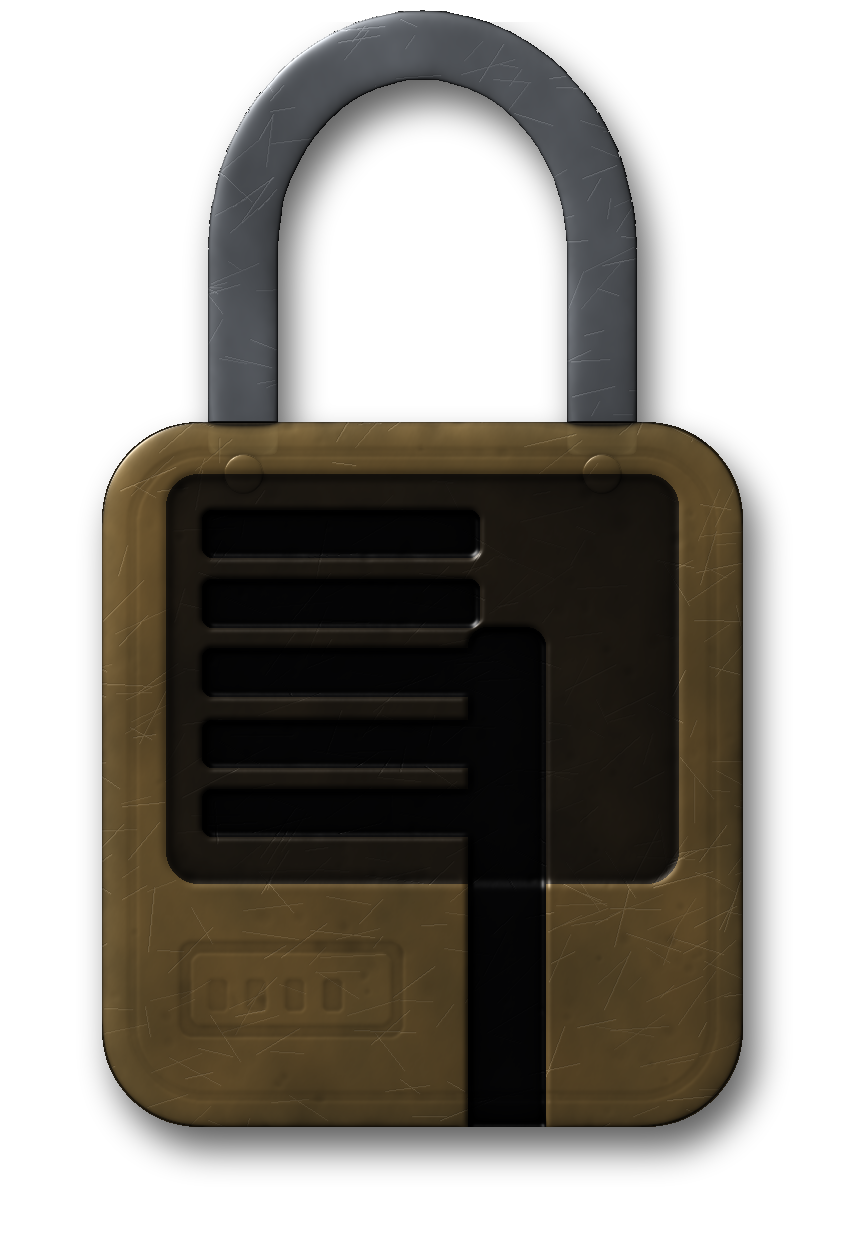
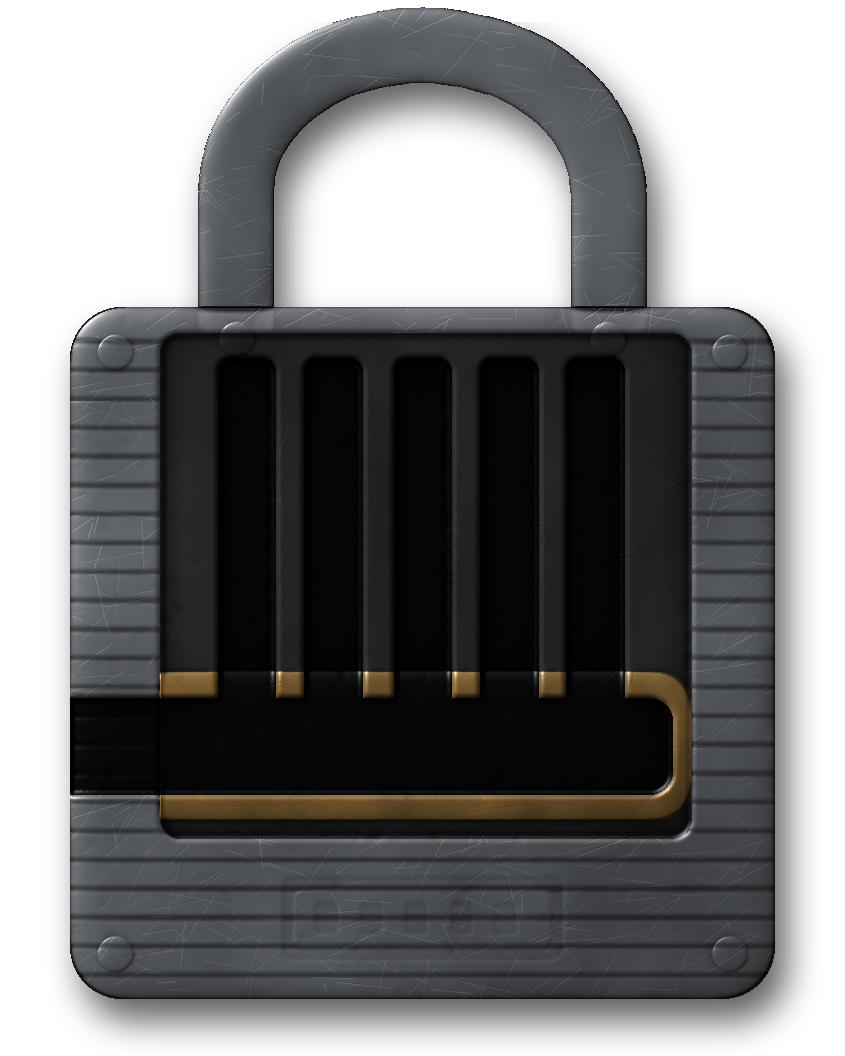
Lockpicking: the padlock is a cutaway practice lock, pins upright
From the reference pictures: a padlock is picked as any pin tumbler is, the
pins standing upright in their chambers above the plug and the pick coming
in sideways through the keyway. It was drawn with the whole mechanism
turned on its side. The padlock is now a laminated steel body with its
shackle, opened up to show the pin chambers above a brass plug, the keyway
open at its side; the game's pins and pick stand in it upright, as in
every other lock. The mechanics are unchanged.

Claude-Session: https://claude.ai/code/session_01HEx4Dv9WeWKY8cC8hzvUb9

diff --git a/game/tools/make_lock_art.py b/game/tools/make_lock_art.py
@@ -13,8 +13,9 @@ The plates share the escutcheon's layout, in the game's "plate" coordinates
 (``game/ui/lockpicking.py``: drawn into QRectF(-12, 130, 480, 320), 3.2 px per
 unit), so the live pins and pick the game draws sit in their channels: five
 channels at x = 173, 200, 228, 255, 282 above a keyway at y ~ 318-346. The
-padlock is drawn into QRectF(PADLOCK_RECT); its mechanism is turned upright
-(the pick enters from below) and its channels are laid out to match.
+padlock, drawn into QRectF(PADLOCK_RECT), is a cutaway practice lock: its pin
+chambers and plug sit in that same place, the pins upright, the pick in from
+the left through the keyway.
 
 Deterministic (fixed seeds). Run from the repo root::
 
@@ -32,7 +33,7 @@ from PIL import Image, ImageDraw, ImageFilter
 OUT = os.path.join("assets", "ui", "lockpicking")
 SCALE = 3.2                       # px per plate unit, as escutcheon.png
 PLATE_RECT = (-12.0, 130.0, 480.0, 320.0)
-PADLOCK_RECT = (100.0, 104.0, 270.0, 392.0)
+PADLOCK_RECT = (96.0, 100.0, 264.0, 330.0)
 PINS = (173, 200, 228, 255, 282)
 LIGHT = np.array([-0.55, -0.62, 0.56])
 LIGHT = LIGHT / np.linalg.norm(LIGHT)
@@ -317,84 +318,75 @@ def rusted_lock():
 
 
 # ------------------------------------------------------------------ padlock
-def padlock_layout():
-    """Plate-unit geometry of the padlock, and where the upright mechanism's
-    channels land (game/ui/lockpicking.py turns it about (232, 314) by -90
-    degrees at 0.8 scale)."""
-    c, s = (232.0, 314.0), 0.8
-    rows = [c[1] - s * (x - 228) for x in PINS]                # channel centre rows
-    return {"centre": c, "scale": s, "rows": rows,
-            "chan_x": (c[0] + s * (214 - 300), c[0] + s * (322 - 300)),
-            "keyway_x": (c[0] + s * (318 - 300), c[0] + s * (348 - 300))}
-
-
 def padlock():
+    """A laminated steel padlock opened up, as a cutaway practice lock is: the
+    shackle above, the body's laminations, and a window into the works -- the
+    pin chambers standing upright above a brass plug, its keyway open at the
+    body's left side, where the pick comes in. The pins and pick the game
+    draws stand in these chambers (the box locks' layout)."""
     cv = Canvas(PADLOCK_RECT)
     rng = np.random.default_rng(37)
-    lay = padlock_layout()
-    body, shackle, recess, window = cv.mask(), cv.mask(), cv.mask(), cv.mask()
-    cv.rrect(body, 132, 236, 332, 456, 30)
-    path = [(176, 246), (176, 182)]
+    body, shackle, window, plug, recess = (cv.mask() for _ in range(5))
+    cv.rrect(body, 118, 196, 338, 412, 16)
+    path = [(170, 204), (170, 160)]
     for i in range(0, 181, 6):
         a = math.radians(180 - i)
-        path.append((232 + 56 * math.cos(a), 182 - 64 * math.sin(a)))
-    path += [(288, 182), (288, 246)]
-    cv.line(shackle, path, 22)
-    cv.rrect(window, 152, 252, 312, 380, 10)            # the cutaway into the works
-    x0, x1 = lay["chan_x"]
-    for row in lay["rows"]:
-        cv.rrect(recess, x0, row - 7.4, x1, row + 7.4, 3)
-    k0, k1 = lay["keyway_x"]
-    cv.rrect(recess, k0, 300, k1, 470, 6)               # the keyway, out through the foot
-    b, sh, rc, wn = arr(body), arr(shackle), arr(recess), arr(window)
+        path.append((228 + 58 * math.cos(a), 160 - 46 * math.sin(a)))
+    path += [(286, 160), (286, 204)]
+    cv.line(shackle, path, 24)
+    cv.rrect(window, 146, 204, 312, 362, 6)             # the cutaway into the works
+    cv.rrect(plug, 134, 310, 312, 356, 10)              # the brass plug, its shear line on top
+    for x in PINS:
+        cv.rrect(recess, x - 9, 212, x + 9, 324, 4)     # the pin chambers
+    cv.rrect(recess, 112, 318, 306, 348, 7)             # the keyway, open at the left side
+    b, sh, wn, pg, rc = arr(body), arr(shackle), arr(window), arr(plug), arr(recess)
     shape = b.shape
-    h = 0.6 * bevel(b, 10 * SCALE) + 0.5 * bevel(sh, 5 * SCALE) * (1 - b)
-    h += 0.5 * sh * 0  # the shackle's roundness comes from its bevel
-    h -= 0.35 * blur(wn, 3) * b
-    h -= 0.6 * blur(rc * np.maximum(b, wn), 2)
-    cast = noise(shape, 70, rng, 6)
-    h += 0.035 * (cast - 0.5) * b
-    h += 0.03 * blur(dents(shape, rng, 500, 4, 18), 1.2) * b
-    scr = scratches(shape, rng, 900, 50)
+    h = 0.6 * bevel(b, 8 * SCALE) + 0.55 * bevel(sh, 6 * SCALE) * (1 - b)
+    # Laminations: the stacked steel plates a padlock body is riveted from.
+    lam = np.zeros(shape, np.float32)
+    for y in range(206, 412, 9):
+        g = cv.mask()
+        cv.rrect(g, 118, y, 338, y + 1.4, 0.6)
+        lam = np.maximum(lam, arr(g))
+    h -= 0.05 * blur(lam, 1.2) * b * (1 - wn)
+    h -= 0.45 * blur(wn, 2.5) * b                       # the window is cut in
+    h += 0.42 * bevel(pg, 6 * SCALE) * wn               # the round plug stands proud in it
+    h -= 0.7 * blur(rc * np.maximum(b, pg), 1.8)
+    h += 0.03 * blur(dents(shape, rng, 600, 3, 14), 1.2) * b
+    scr = scratches(shape, rng, 1100, 50)
     h -= 0.02 * scr * (b + sh)
-    # A stamped maker's mark on the face, below the cutaway.
+    rivets = np.zeros(shape, np.float32)
+    for (x, y) in ((132, 210), (324, 210), (132, 398), (324, 398), (170, 206), (286, 206)):
+        rivets = np.maximum(rivets, dome(cv, shape, x, y, 5.5))
+    h += 0.2 * rivets
     mark = cv.mask()
-    cv.rrect(mark, 156, 398, 226, 428, 4)
+    cv.rrect(mark, 184, 374, 272, 400, 4)
     inner = cv.mask()
-    cv.rrect(inner, 160, 402, 222, 424, 3)
+    cv.rrect(inner, 188, 378, 268, 396, 3)
     stamp = arr(mark) - arr(inner)
-    border = cv.mask()
-    cv.rrect(border, 140, 244, 324, 448, 24)
-    border_in = cv.mask()
-    cv.rrect(border_in, 143, 247, 321, 445, 21)
-    stamp = np.maximum(stamp, (arr(border) - arr(border_in)) * 0.8)
-    for k, x in enumerate((168, 180, 192, 204)):
+    for k, x in enumerate((198, 212, 226, 240, 254)):
         dot = cv.mask()
-        cv.rrect(dot, x - 3, 410, x + 3, 420, 1.5)
-        stamp = np.maximum(stamp, arr(dot) * (0.7 + 0.1 * k))
-    h -= 0.05 * blur(stamp, 1.0)
-    rivet = np.maximum(dome(cv, shape, 176, 252, 6.0), dome(cv, shape, 288, 252, 6.0))
-    h += 0.18 * rivet
+        cv.rrect(dot, x - 3.5, 382, x + 3.5, 392, 1.5)
+        stamp = np.maximum(stamp, arr(dot) * 0.8)
+    h -= 0.05 * blur(stamp, 1.0) * b
     alpha = np.clip(b + sh, 0, 1)
-    steel = np.array([0.46, 0.48, 0.51])
-    brass = np.array([0.62, 0.48, 0.26])
     tone = noise(shape, 220, rng, 5)
-    patina = noise(shape, 90, rng, 5)
-    body_col = brass * (0.75 + 0.45 * tone[..., None])
-    body_col = body_col * (1 - 0.3 * patina[..., None]) + np.array([0.30, 0.30, 0.20]) * 0.3 * patina[..., None]
-    steel_col = steel * (0.78 + 0.4 * tone[..., None])
-    on_body = b[..., None]
-    albedo = body_col * on_body + steel_col * (1 - on_body)
-    edge = np.clip(bevel(b, 3 * SCALE) - bevel(b, 12 * SCALE), 0, 1) + np.clip(
-        bevel(sh, 2 * SCALE) - bevel(sh, 6 * SCALE), 0, 1)
-    shine = np.array([0.92, 0.80, 0.52]) * on_body + np.array([0.80, 0.82, 0.84]) * (1 - on_body)
-    albedo = albedo * (1 - 0.35 * edge[..., None]) + shine * 0.35 * edge[..., None]
+    steel = np.array([0.50, 0.52, 0.55]) * (0.78 + 0.4 * tone[..., None])
+    albedo = steel.copy()
+    edge = np.clip(bevel(b, 2.5 * SCALE) - bevel(b, 10 * SCALE), 0, 1) + np.clip(
+        bevel(sh, 2 * SCALE) - bevel(sh, 7 * SCALE), 0, 1)
+    albedo = albedo * (1 - 0.35 * edge[..., None]) + np.array([0.82, 0.84, 0.86]) * 0.35 * edge[..., None]
+    albedo *= (1 - 0.35 * blur(lam, 1.5)[..., None] * (1 - wn[..., None]))
     grime = blur(np.clip(1 - h * 1.6, 0, 1), 8) * noise(shape, 40, rng, 4)
-    albedo *= (1 - 0.35 * grime[..., None])
-    albedo += 0.2 * scr[..., None] * alpha[..., None]
-    albedo = albedo * (1 - wn[..., None] * 0.75) + np.array([0.05, 0.05, 0.06]) * wn[..., None] * 0.75
-    albedo = albedo * (1 - rc[..., None]) + np.array([0.03, 0.03, 0.035]) * rc[..., None]
-    rgba = shade(h, albedo, alpha, strength=7.5, spec=0.7, gloss=40.0)
+    albedo *= (1 - 0.3 * grime[..., None])
+    albedo += 0.18 * scr[..., None] * alpha[..., None]
+    inside = np.array([0.20, 0.21, 0.22])              # the body's drilled interior
+    albedo = albedo * (1 - wn[..., None]) + inside * (0.7 + 0.5 * tone[..., None]) * wn[..., None]
+    brass = np.array([0.66, 0.50, 0.26]) * (0.8 + 0.35 * noise(shape, 60, rng, 4)[..., None])
+    on_plug = (pg * wn)[..., None]
+    albedo = albedo * (1 - on_plug) + brass * on_plug
+    albedo = albedo * (1 - rc[..., None]) + np.array([0.035, 0.035, 0.04]) * rc[..., None]
+    rgba = shade(h, albedo, alpha, strength=7.5, spec=0.65, gloss=38.0)
     save(rgba, "padlock.png", shadow_from=alpha)
 
 

diff --git a/game/ui/lockpicking.py b/game/ui/lockpicking.py
@@ -57,7 +57,7 @@ _PIN_METAL = {
 #: Where the rendered plates are drawn, in the escutcheon's coordinates
 #: (game/tools/make_lock_art.py renders them to fit these, channel for channel).
 PLATE_RECT = (-12.0, 130.0, 480.0, 320.0)
-PADLOCK_RECT = (100.0, 104.0, 270.0, 392.0)
+PADLOCK_RECT = (96.0, 100.0, 264.0, 330.0)
 _ART = {}
 
 
@@ -189,7 +189,7 @@ def _padlock_body(p):
 def _dial(p, a, style="ornate"):
     """The lock in front of you: its case or body, a live cutaway, springs and
     two-piece pins, and the pick. The mechanism and its numbers are the same
-    for every style; a padlock's is drawn turned upright."""
+    for every style: pins upright in their chambers, the pick in from the side."""
     global _PLATE
     p.save()
     p.translate(7, 8)
@@ -214,14 +214,9 @@ def _dial(p, a, style="ornate"):
             p.drawPixmap(QRectF(*PADLOCK_RECT), art, QRectF(art.rect()))
         else:
             _padlock_body(p)
-        # Turn the mechanism upright about the pins' centre, into the body.
-        p.translate(232, 314)
-        p.rotate(-90)
-        p.scale(.8, .8)
-        p.translate(-228, -300)
     _mechanism(p, a, style)
     p.restore()
-    if style != "padlock":
+    if True:
         p.save()
         p.translate(7, 8)
         p.scale(.95, .95)

diff --git a/docs/lockpicking.md b/docs/lockpicking.md
@@ -86,15 +86,15 @@ changes with what it locks (`lock_style` in `game/ui/lockpicking.py`):
 
 | Style | Seen on | Looks like |
 | --- | --- | --- |
-| Padlock | crates | a steel padlock; the mechanism stands upright inside it and the pick goes in from below |
+| Padlock | crates | a laminated steel padlock opened up like a practice lock: the pins upright in their chambers above a brass plug, the pick in through the keyway at its side |
 | Rusted | abandoned, burial and barrow chests; many novice locks | a pitted, rust-streaked iron case with dull pins |
 | Iron | strongboxes, coffers, hoards, the toll chest; most apprentice locks | a riveted steel case with steel pins |
 | Ornate | merchants' and fine chests; expert and master locks | the engraved brass escutcheon |
 
 The iron, rusted and padlock plates are rendered images, like the escutcheon,
 made by `python -m game.tools.make_lock_art` (a lit height field: forged and
-pitted metal, hammer marks, scratches, rivets, rust and flaking scale, a cast
-brass padlock with a steel shackle), laid out channel for channel with the
+pitted metal, hammer marks, scratches, rivets, rust and flaking scale, a laminated
+steel padlock with a cutaway into its works), laid out channel for channel with the
 pins and pick the game draws over them.
 
 A container can name its own with `"lock_style"` (`ornate`, `iron`, `rusted`,
